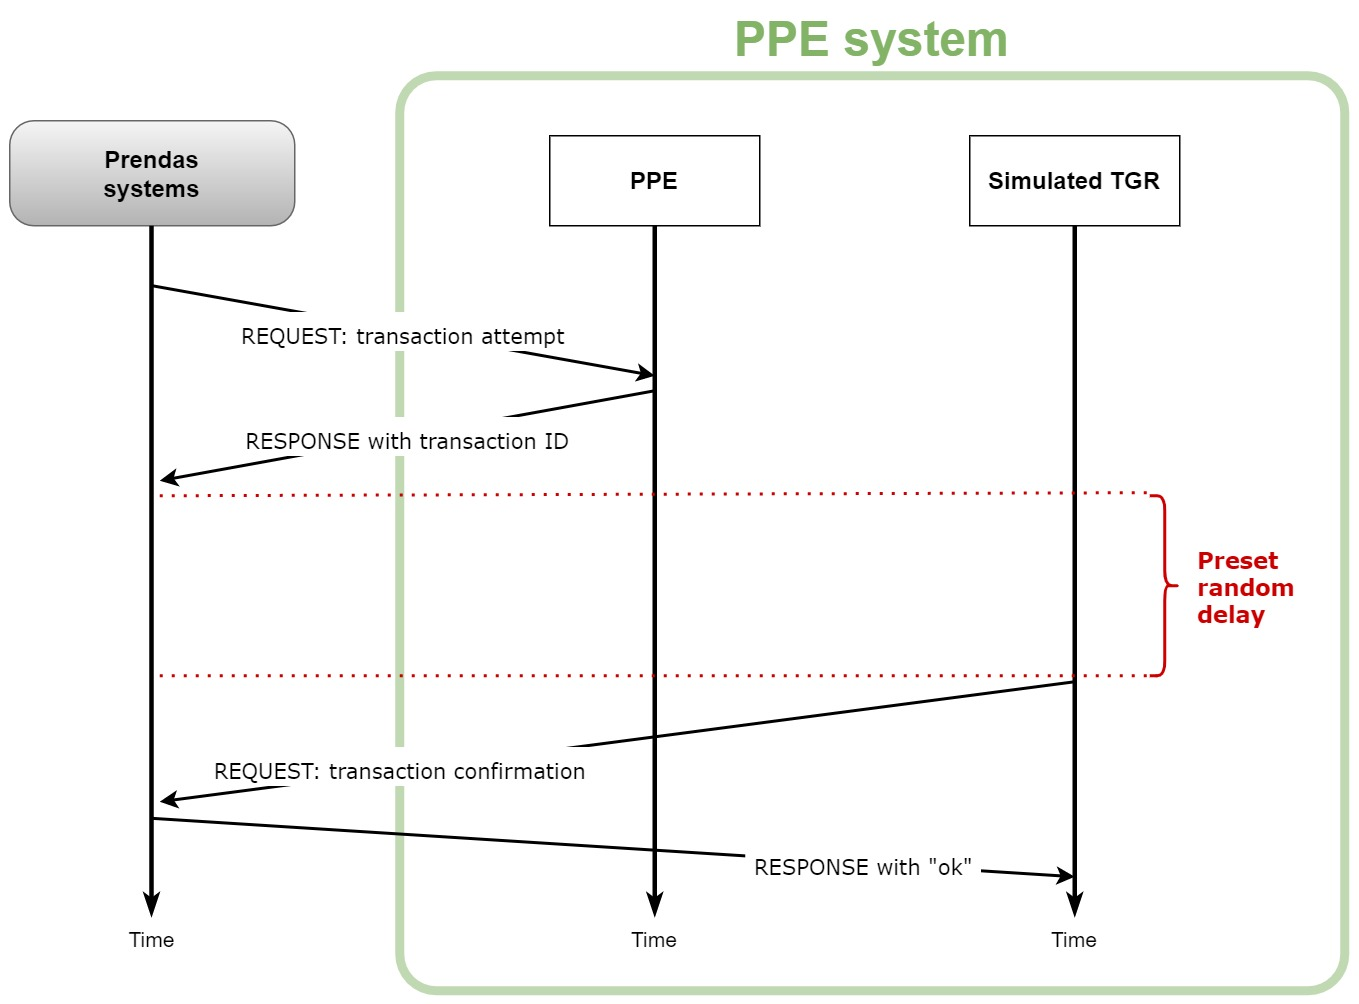
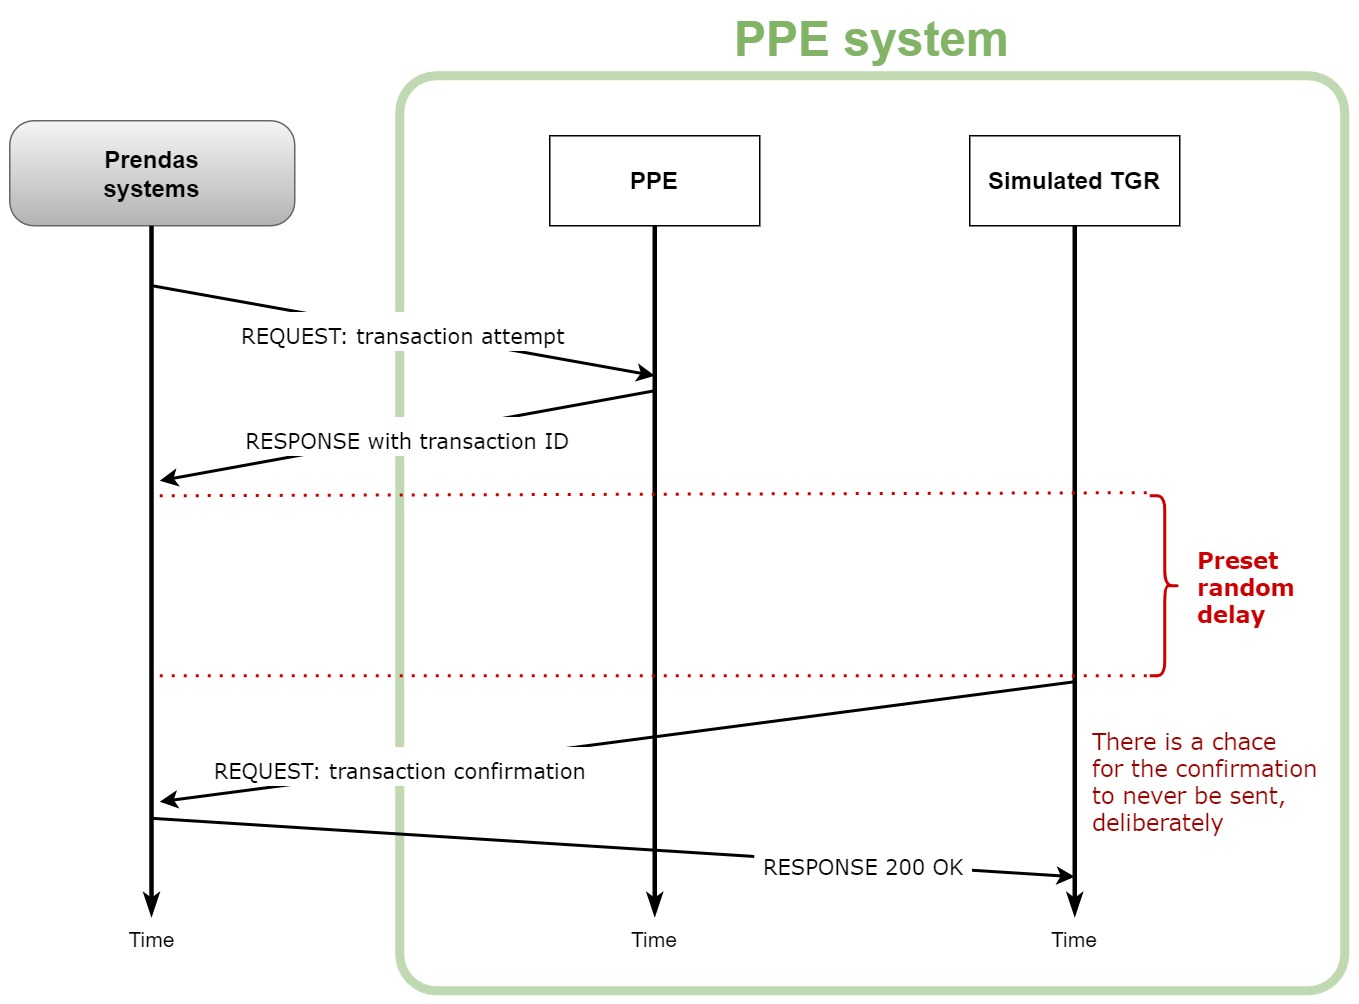
Updated PPE documentation

Changed region(s): [[0.8035, 0.7102, 0.9581, 0.8337], [0.5563, 0.8337, 0.7108, 0.8954]]

diff --git a/docs/api/PPE.md b/docs/api/PPE.md
@@ -4,16 +4,37 @@ This API serves the purpose of validating data requests for the PPE system (*por
 
 - [PPE API](#ppe-api)
   - [1. Confirmation from TGR](#1-confirmation-from-tgr)
+    - [1.1. Desired request-response format](#11-desired-request-response-format)
+    - [1.2. Desired example calls](#12-desired-example-calls)
   - [2. POST: register payment attempt (PPE)](#2-post-register-payment-attempt-ppe)
     - [2.1. Request body format](#21-request-body-format)
     - [2.2. Example calls](#22-example-calls)
-  - [3. POST: confirm payment (TGR)](#3-post-confirm-payment-tgr)
 
 ## 1. Confirmation from TGR
 
 When receiving a valid payment call from the PPE API consumer (Prendas), the transaction is registered and marked as pending (from TGR confirmation), and the ID for that transaction is returned to Prendas in the response immediately. Then, a random amount of time is set for the simulated TGR to send the confirmation to Prendas (passing the transaction ID previously returned to Prendas by PPE), by consuming an API exposed by Prendas after that random time. See the image below. There's also a probability for TGR to never send the confirmation, which has to be considered (Prendas will have to set a timeout for TGR confirmation for a PPE transaction).
 
 ![PPE payment flow](./diagram_PPE_payment_flow.jpg "PPE payment flow diagram")
+
+So this confirmation endpoint is consumed by ourselves and has to be exposed by the Prendas systems. Once we have it, this works as a callback from the payment attempt API endpoint. The documentation for this endpoint has to be provided from Prendas, but we state the desired shape format as follows:
+
+### 1.1. Desired request-response format
+
+Let `PRENDAS_IP` and `PRENDAS_PORT` the host and port of the Prendas server, respectively.
+
+### 1.2. Desired example calls
+
+Request for validating/confirming the payment of the transaction with ID `4`, previously given to Prendas when they consumed the [register payment attempt endpoint](#2-post-register-payment-attempt-ppe) from PPE.
+
+```shell
+curl --location --request POST "${PRENDAS_SERVER_IP}:${PRENDAS_PORT}/api/tgr_confirmation" \
+    --header 'Content-Type: application/json' \
+    --data-raw '{
+        "transaction_id": 4
+    }'
+```
+
+Then, the response 200 OK with acknowledgment of the request, with no body. Having a body like `{"msg": "OK"}` would be redundant. If the response is not received or the request cannot be delivered, the simulated TGR will retry again after a timeout, until the confirm payment request succeeds (so the confirmation process won't fail if the Prendas systems crash or are offline for a moment).
 
 <!-- ppePaymentRequest -->
 
@@ -55,11 +76,3 @@ Response 200 OK:
 ```
 
 Note: if a body parameter is missing, an exception will be triggered in the server.
-
-## 3. POST: confirm payment (TGR)
-
-This endpoint is consumed by ourselves and has to be exposed by the Prendas systems. Once we have it, this works as a callback from the payment attempt API endpoint.
-
-The documentation for this endpoint has to be provided from Prendas.
-
-<!-- TODO -->
